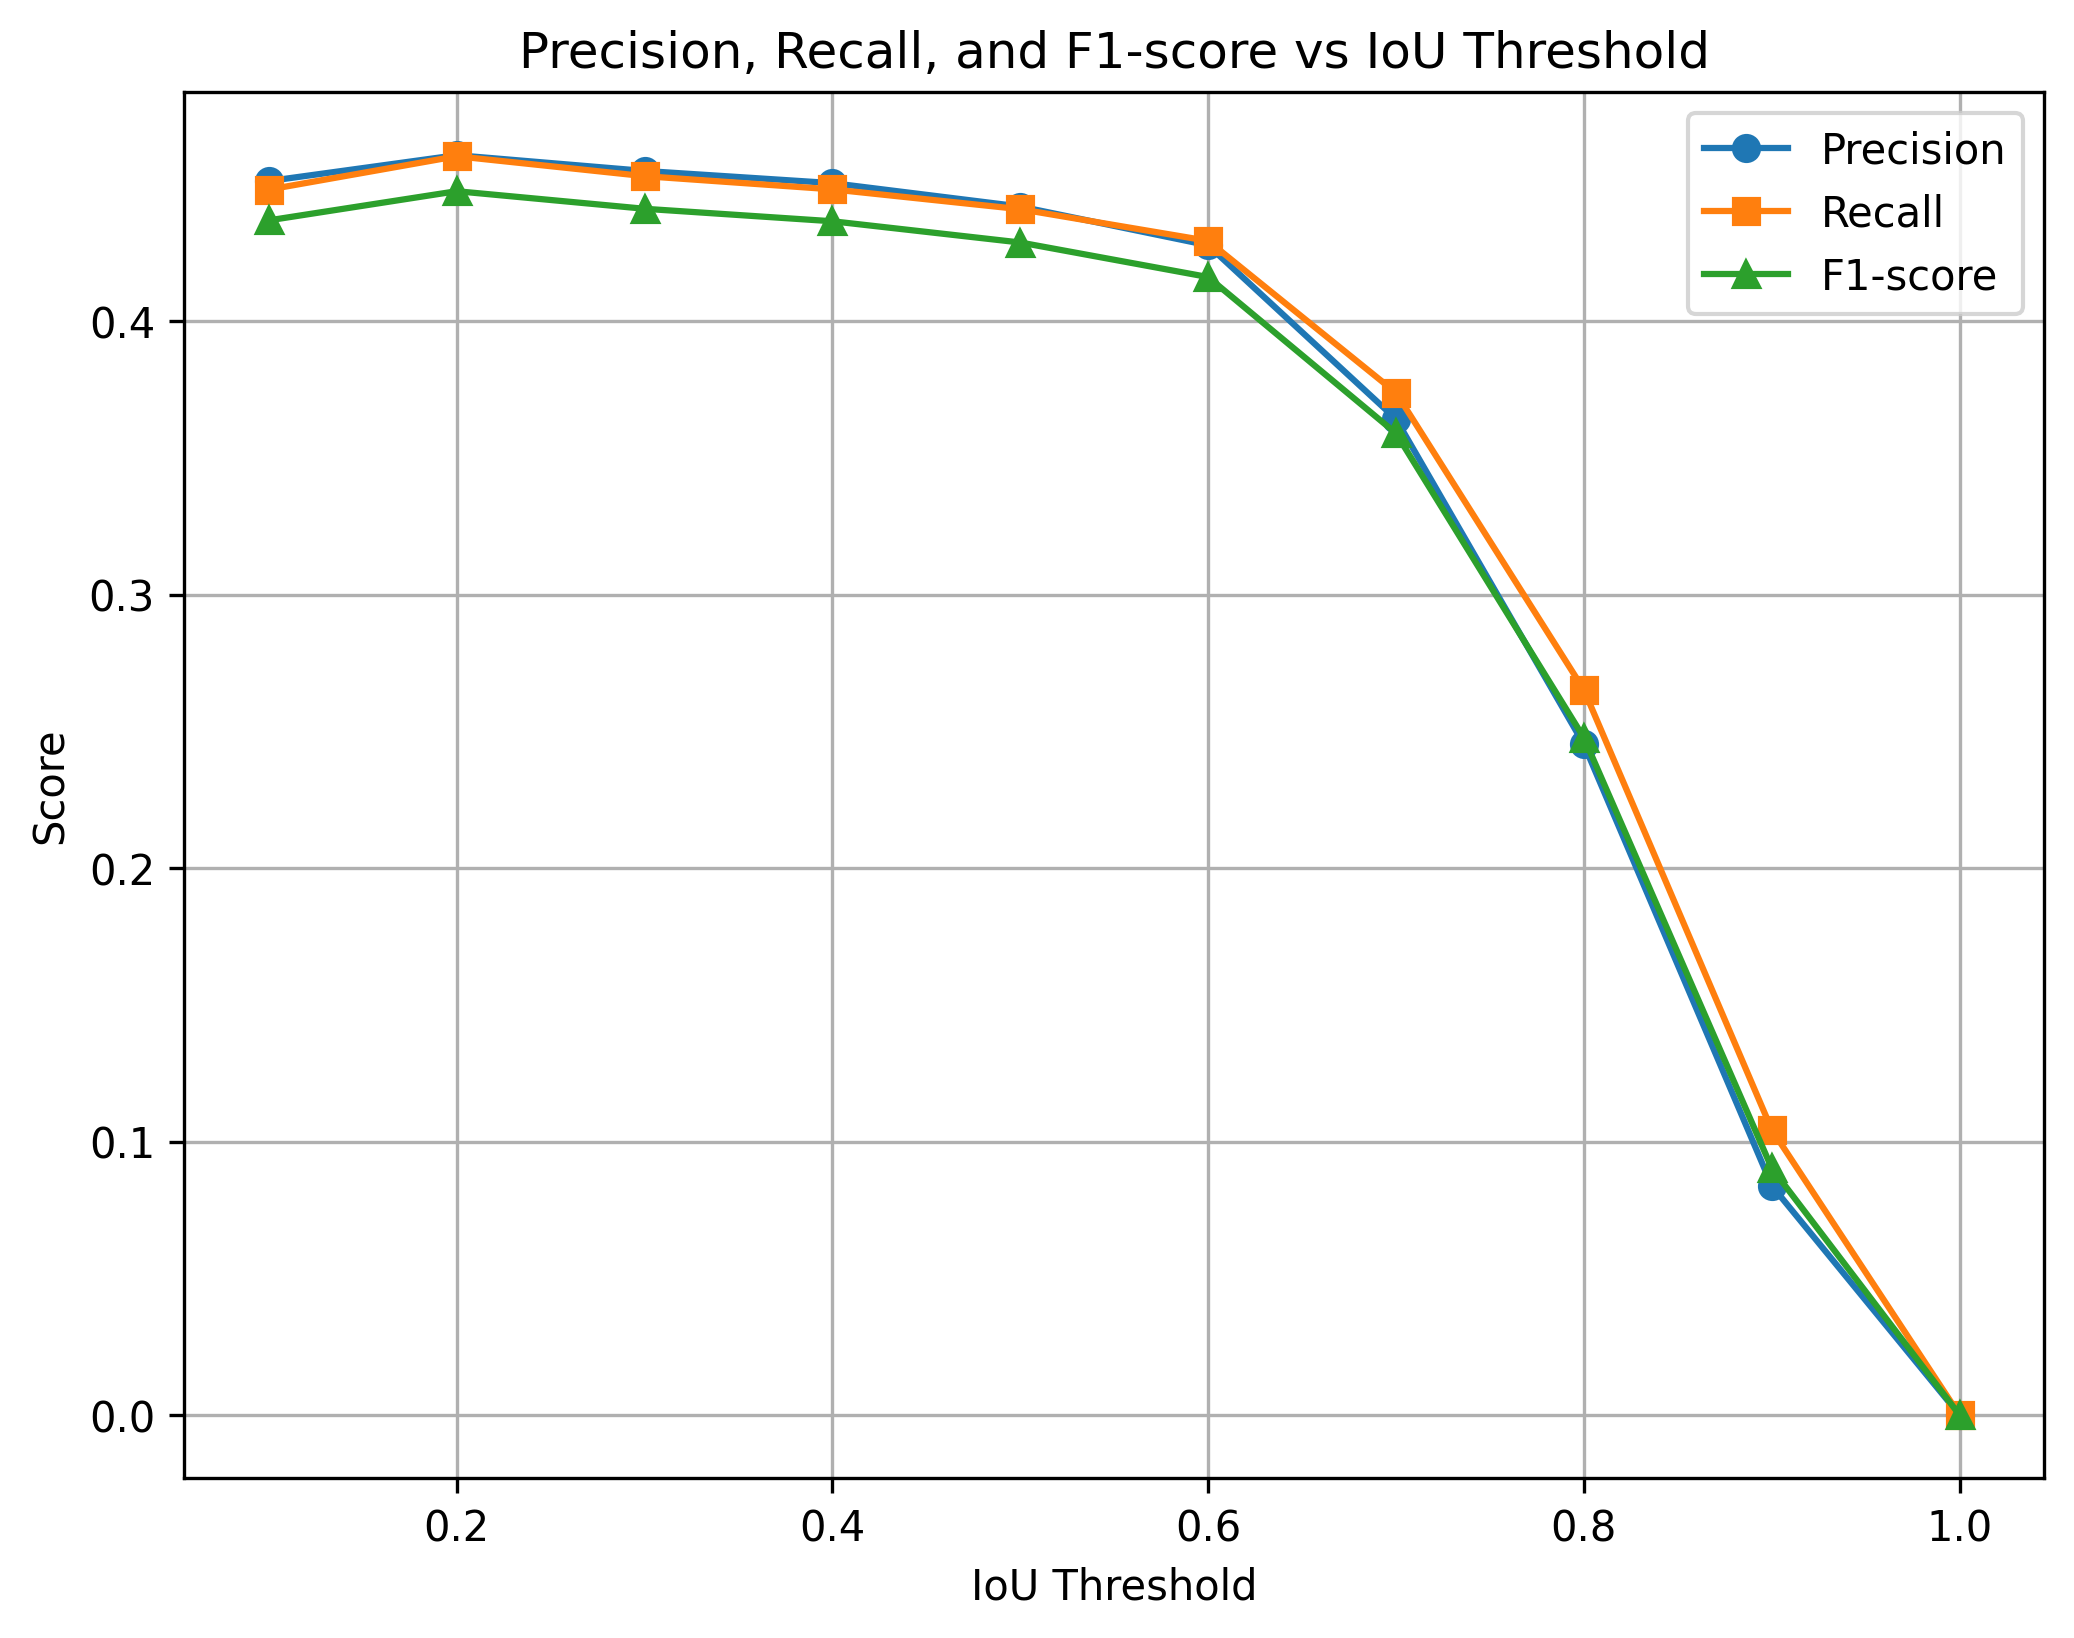
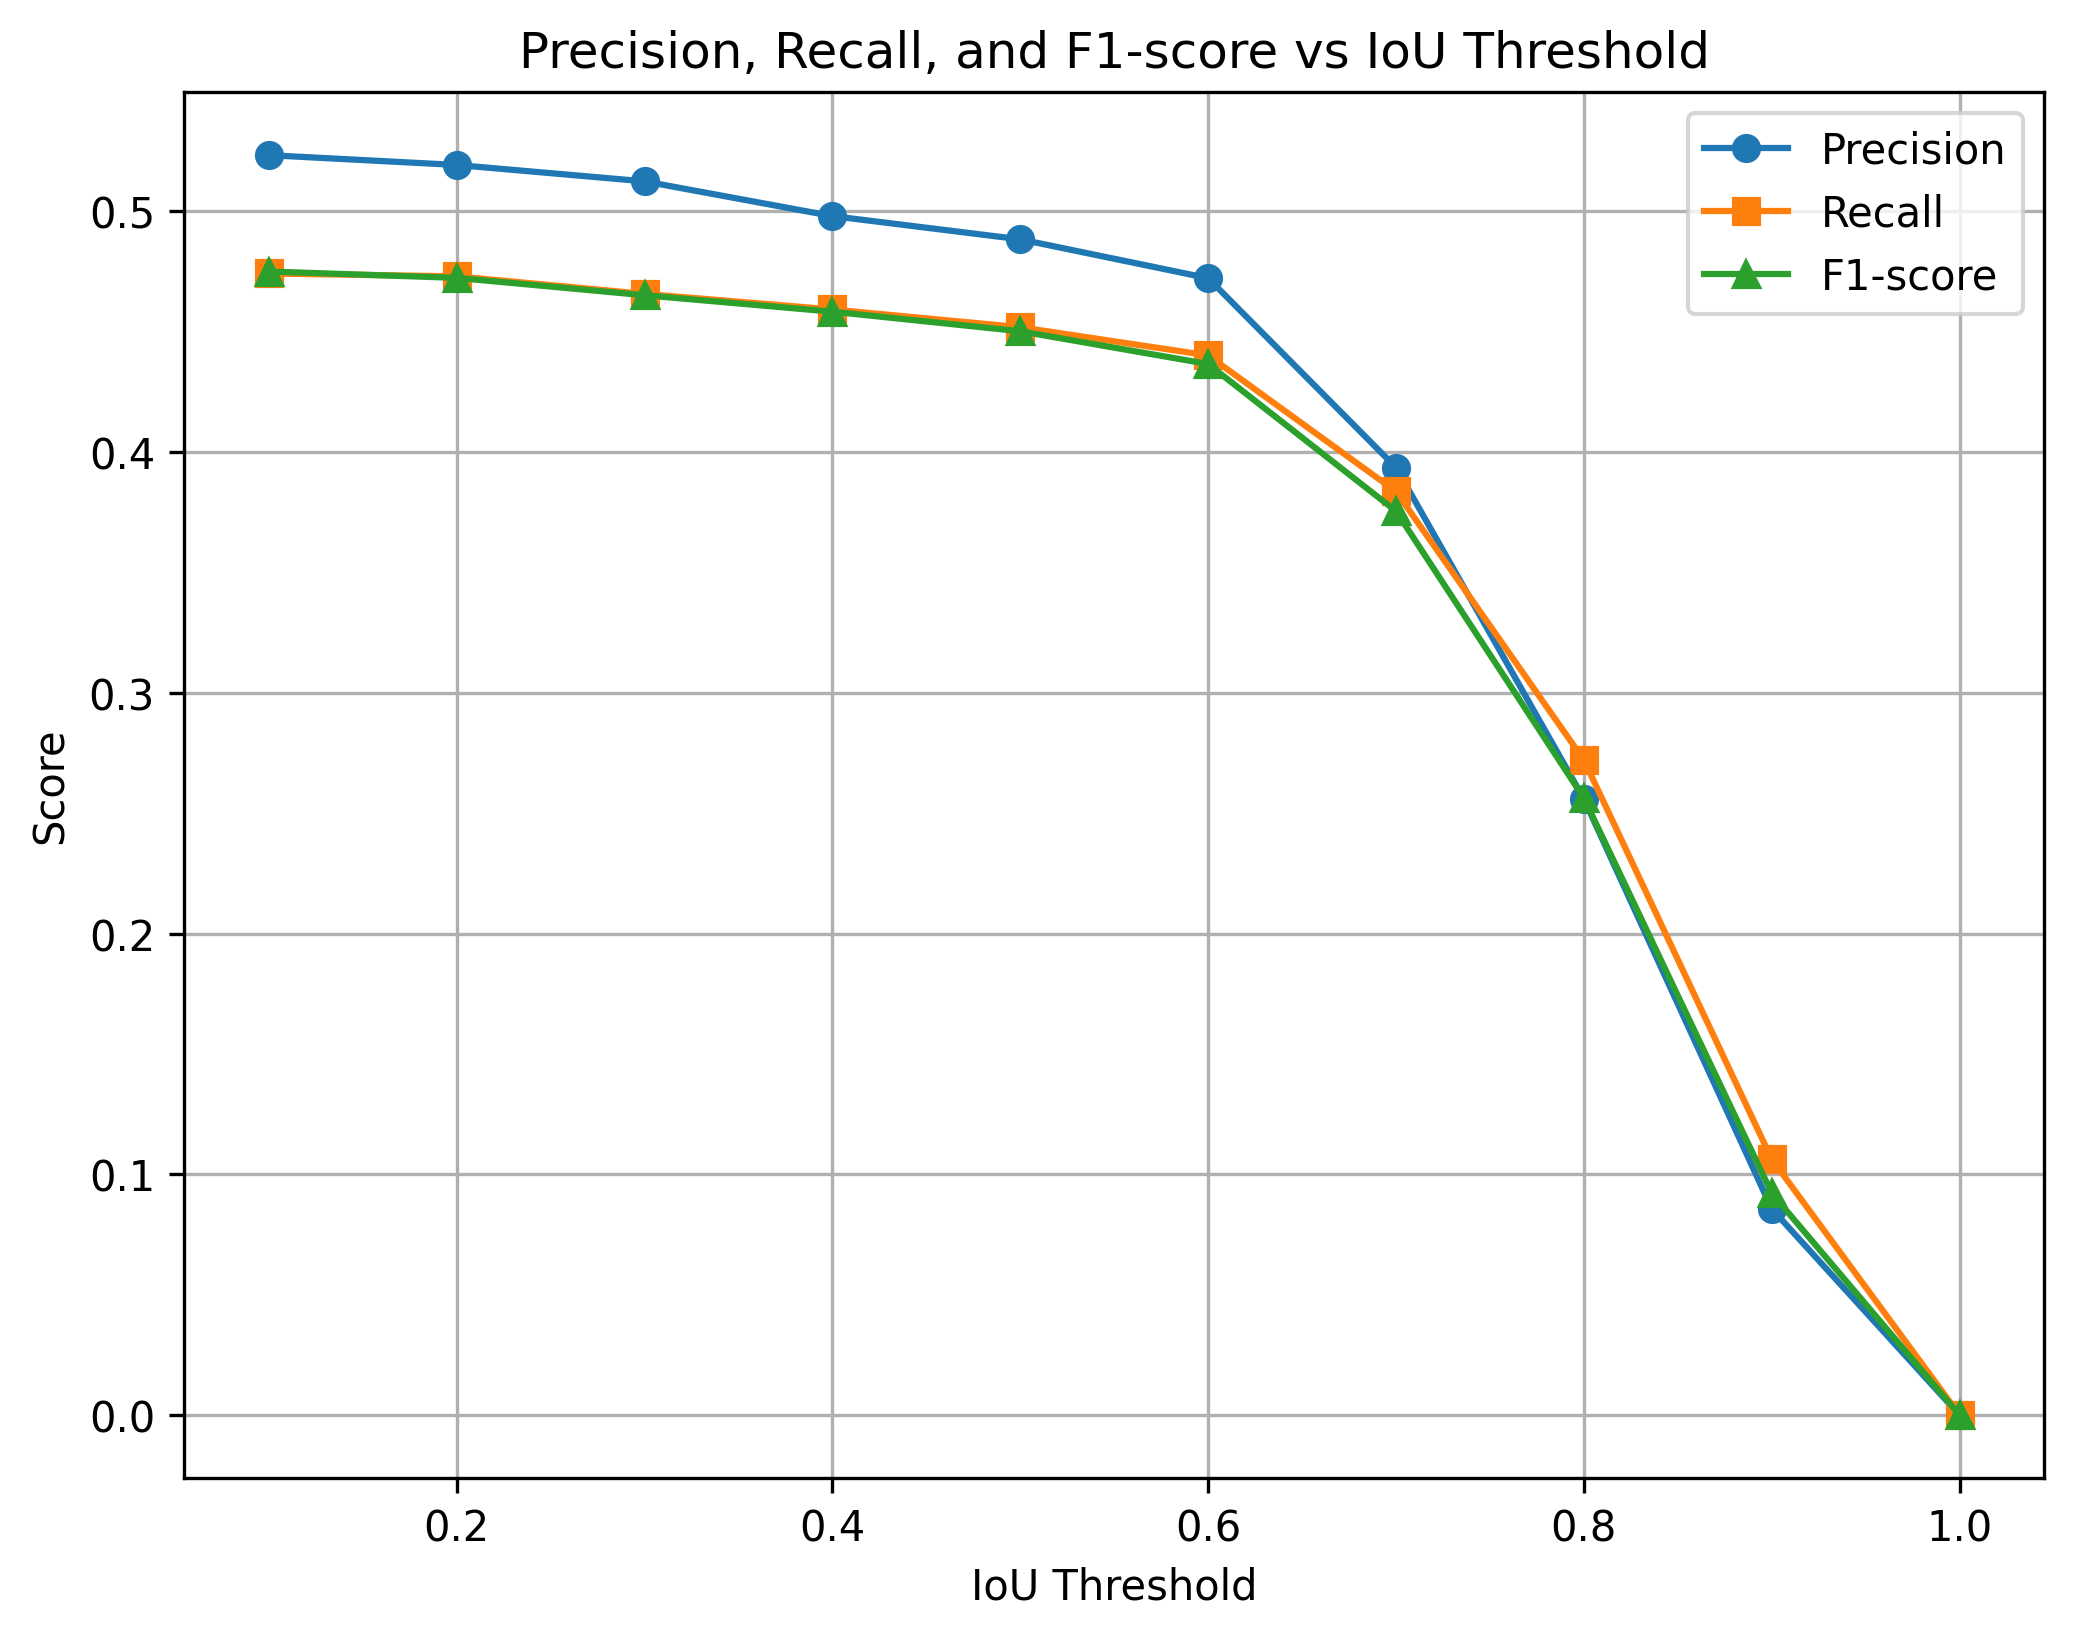
update

diff --git a/YOLO_Evaluation_V3.py b/YOLO_Evaluation_V3.py
@@ -139,15 +139,16 @@ def evaluate_detections(folder_gt, folder_detect, iou_threshold=0.2):
                     # Misclassification (wrong class)
                     confusion_matrix[gt_class, pred_class] += 1
                     class_counts[pred_class]["FP"] += 1
-                    if gt_class==1:
-                        print(filename)
-                        print(best_iou)
-                        print(gt_class)
+                    # if gt_class==1:
+                    #     print(filename)
+                    #     print(best_iou)
+                    #     print(gt_class)
             else:
                 # False positive (no IoU match)
                 pred_class = detect_box[0]
                 confusion_matrix[background_class_id, pred_class] += 1
-                class_counts[gt_class]["FN"] += 1
+                class_counts[pred_class]["FP"] += 1
+
 
         # False negatives (unmatched ground truths)
         for j, gt_box in enumerate(gt_boxes):
@@ -171,6 +172,11 @@ def evaluate_detections(folder_gt, folder_detect, iou_threshold=0.2):
         TP = counts["TP"]
         FP = counts["FP"]
         FN = counts["FN"]
+        if class_id ==8:
+            print(TP)
+            print(FP)
+            print(FN)
+
 
         precision = TP / (TP + FP) if (TP + FP) > 0 else 0
         recall = TP / (TP + FN) if (TP + FN) > 0 else 0
@@ -185,9 +191,11 @@ def evaluate_detections(folder_gt, folder_detect, iou_threshold=0.2):
     return results, confusion_matrix
 ############################
 # MAIN
-THRESH = .3
+THRESH = .5
 folder_gt = "/home/saman/Documents/test"
 folder_detect = "/home/saman/Documents/exp7/labels"
+folder_gt = "/data/projects/datasets/coco128-2023-06-28-2/labels/test"
+folder_detect = "/data/projects/yolov5/runs/detect/exp/labels"
 results, confusion_matrix = evaluate_detections(folder_gt, folder_detect,iou_threshold=THRESH)
 
 ###################################

diff --git a/YOLO_Evaluation_vs_THRESH.py b/YOLO_Evaluation_vs_THRESH.py
@@ -1,7 +1,6 @@
 import numpy as np
 import matplotlib.pyplot as plt
-from YOLO_Evaluation import evaluate_detections, class_names  # Import your function
-from incisionComparison_V4 import heatmap_Treat
+from YOLO_Evaluation_V3 import evaluate_detections, class_names  # Import your function
 
 # Define thresholds from 0.1 to 1 with 0.1 step
 thresholds = np.arange(0.1, 1.1, 0.1)
@@ -11,8 +10,8 @@ avg_precisions = []
 avg_recalls = []
 avg_f1_scores = []
 
-# folder_gt = "/data/projects/datasets/coco128-2023-06-28-2/labels/test"
-# folder_detect = "/data/projects/yolov5/runs/detect/exp/labels"
+folder_gt = "/data/projects/datasets/coco128-2023-06-28-2/labels/test"
+folder_detect = "/data/projects/yolov5/runs/detect/exp/labels"
 
 for thresh in thresholds:
     results, _ = evaluate_detections(folder_gt, folder_detect, iou_threshold=thresh)

diff --git a/create_image_with_mask.py b/create_image_with_mask.py
@@ -8,10 +8,12 @@ from functions import createDIR, overlayMasks_incision
 dest_folder = '/data/DATA/supervisely_format/Batch210/final'
 dest_folder = '/data/DATA/Incision_predictions/Batch211-FasterViT/final'
 dest_folder = '/data/DATA/STAPLE/Batch214/final'
-#dest_folder = '/data/DATA/consensus-temp'
-common_path_image = 'annotationDatas/annotationData214/'
+dest_folder = '/data/DATA/TESTS'
+common_path_image = '/data/DATA/incision/4'
 #common_path_mask = '/data/DATA/Incision_predictions/Batch211-FasterViT/'
-common_path_mask = '/data/DATA/STAPLE/Batch214'
+common_path_mask = common_path_image
+
+
 
 image_folder_name ='image'
 mask_folder_name ='mask'

diff --git a/create_image_with_STAPLE.py b/create_image_with_STAPLE.py
@@ -53,8 +53,9 @@ def combine_images(path1, path2, output_path):
 path1 = 'annotationDatas/annotationData214/image'
 path2 = '/data/DATA/STAPLE/Batch214/final'
 output_path = "/data/DATA/temp-staple-image"
-
-# path1 = '/data/projects/IncisionDeepLab/input/incision/orig_data4/test_images'
+path2 = '/data/DATA/Incision_predictions/test-1-213/FasterViT/consensus/final'
+output_path = "/data/DATA/MC2"
+path1 = '/data/projects/IncisionDeepLab/input/incision/orig_data4/test_images'
 # path2 = '/data/DATA/Incision_predictions/test-1-213/Mask2Former/all/final'
 # output_path = "/data/DATA/Z-Mask2Former"
 combine_images(path1, path2, output_path)

diff --git a/folders_to_folder.py b/folders_to_folder.py
@@ -22,9 +22,9 @@ def check_and_move_files(folder1, folder2, new_folder):
 
 
 # Paths to the folders
-folder1 = "/data/DATA/incision/4/image"
-folder2 = "/data/DATA/incision/10/image"
-new_folder = "/data/DATA/incision/4of10/image"
+folder1 = "/data/D"
+folder2 = "/data/projects/IncisionDeepLab/input/incision/orig_data4/test_images"
+new_folder = "/data/DATA/MCTEST"
 
 # Call the function
 check_and_move_files(folder1, folder2, new_folder)
